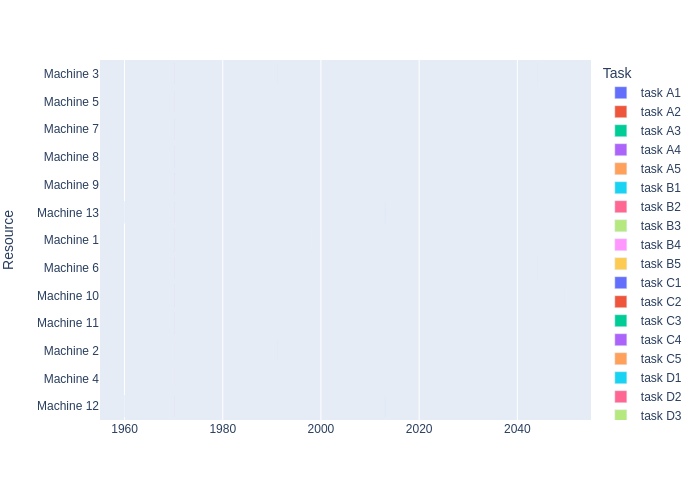
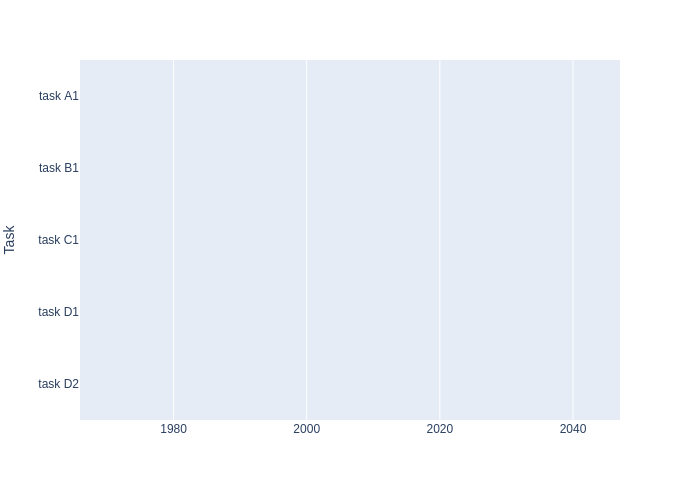
init2

diff --git a/main.py b/main.py
@@ -6,7 +6,11 @@ from pymoo.optimize import minimize
 from pymoo.termination import get_termination
 from JSSP_initialization import JSSP_initial
 import matplotlib.pyplot as plt
+import plotly as py
 import plotly.express as px
+import plotly.figure_factory as ff
+
+pyplt = py.offline.plot
 import time
 import os
 from JSSP_operator import *
@@ -14,7 +18,7 @@ from JSSP_operator import *
 if __name__ == "__main__":
     t1 = time.time()
     # problem
-    job_list = ["A"] * 5 + ["B"] * 5 + ["C"] * 5 + ["D"] * 5
+    job_list = ["A"] * 1 + ["B"] * 1 + ["C"] * 1 + ["D"] * 2
     proc_data, ope_num_list, proc_tab_array = gen_order_data(job_list)
     ins_data = (proc_data, ope_num_list)
     problem = JSSP(ins_data)
@@ -93,9 +97,10 @@ if __name__ == "__main__":
             op_idx += 1
             gantt_data.append(dict(Task=task, Start=start, Finish=end, Resource=f"Machine {m_idx + 1}"))
     df = pd.DataFrame(gantt_data)
-    fig = px.timeline(df, x_start="Start", x_end="Finish", y="Resource", color="Task")
+    # fig = ff.create_gantt(df, index_col='')
+    fig = px.timeline(df, x_start="Start", x_end="Finish", y="Task")
     fig.update_yaxes(autorange="reversed")  # otherwise tasks are listed from the bottom up
-    # fig.show()
+    fig.show()
 
 
     if not os.path.exists("images"):
